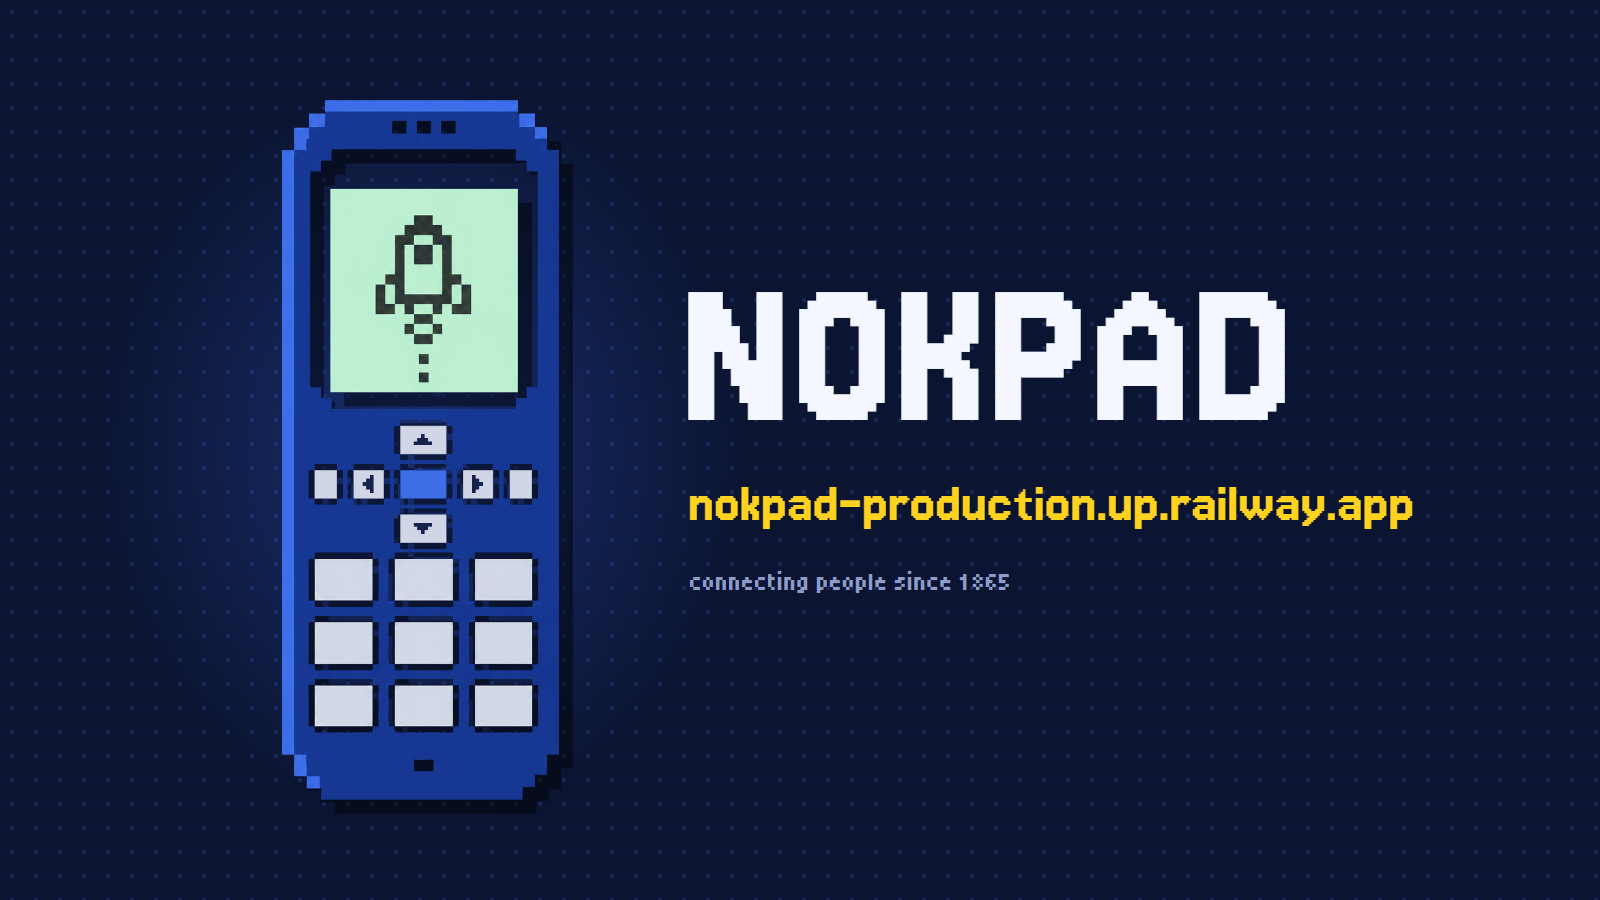
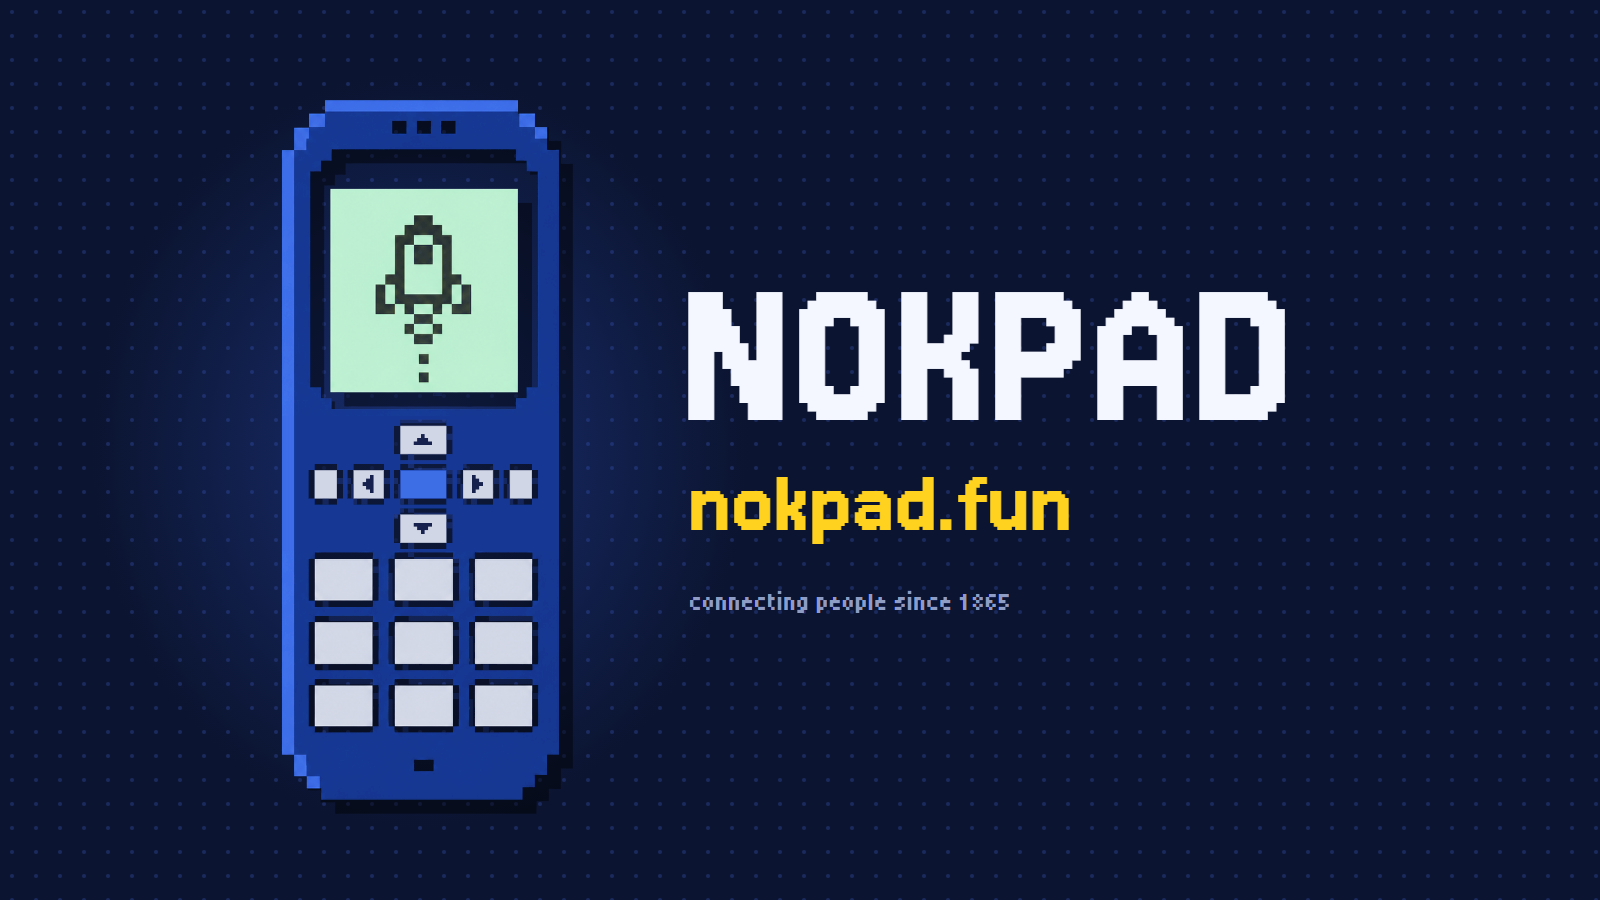
fix: point the NOKPAD article at nokpad.fun
The pad has its own domain now; the Railway address was a stand-in.

Changed region(s): [[0.4062, 0.5289, 0.9062, 0.6844]]

diff --git a/docs/nokpad/index.html b/docs/nokpad/index.html
@@ -47,7 +47,7 @@ button.ok{background:#f5b301;color:#111}
 <h2>It rings when your coin moves</h2></div></div></div><div class="step"><div class="num">8</div><div class="card"><div class="head"><span class="tag">Image</span><span class="sp"></span><a class="btn ghost" download="04-rings.png" href="04-rings.png">Download</a><button onclick="copyImage(this)">Copy image</button></div><img src="04-rings.png" alt=""></div></div><div class="step"><div class="num">9</div><div class="card"><div class="head"><span class="tag">Text</span><span class="sp"></span><button onclick="copyText(this)">Copy</button></div><div class="body"><p>Every coin launched here is saved in Contacts, menu 2.</p>
 <p>A new coin makes the phone buzz. Trades blip. <b>When a coin migrates, the phone rings.</b></p>
 <p>And yes, Snake works.</p></div></div></div><div class="step"><div class="num">10</div><div class="card"><div class="head"><span class="tag">Image</span><span class="sp"></span><a class="btn ghost" download="05-close.png" href="05-close.png">Download</a><button onclick="copyImage(this)">Copy image</button></div><img src="05-close.png" alt=""></div></div><div class="step"><div class="num">11</div><div class="card"><div class="head"><span class="tag">Text</span><span class="sp"></span><button onclick="copyText(this)">Copy</button></div><div class="body"><h2>Connecting people. Now launching coins.</h2>
-<p>Try the phone at <b>nokpad-production.up.railway.app</b>. Launching switches on soon, so go type yours.</p>
+<p>Try the phone at <b>nokpad.fun</b>. Launching switches on soon, so go type yours.</p>
 <p>What are you typing in first?</p></div></div></div></div>
 </div>
 <div class="toast" id="toast">Copied</div>

diff --git a/kits/nokpad/art/05-close.html b/kits/nokpad/art/05-close.html
@@ -16,4 +16,4 @@ svg{display:block}
 <filter id="hard" x="-10%" y="-10%" width="130%" height="130%"><feDropShadow dx="14" dy="14" stdDeviation="0" flood-color="#000" flood-opacity="0.45"/></filter>
 <radialGradient id="glow" cx="0.5" cy="0.5" r="0.5"><stop offset="0" stop-color="#c4ff96" stop-opacity="0.35"/><stop offset="1" stop-color="#c4ff96" stop-opacity="0"/></radialGradient>
 <radialGradient id="blue" cx="0.5" cy="0.5" r="0.5"><stop offset="0" stop-color="#2a4fc0" stop-opacity="0.45"/><stop offset="1" stop-color="#2a4fc0" stop-opacity="0"/></radialGradient>
-</defs><rect width="1600" height="900" fill="#0b1430"/><rect width="1600" height="900" fill="url(#dots)"/><ellipse cx="420" cy="450" rx="330" ry="380" fill="url(#blue)"/><image href="logo.png" x="281.1545138888889" y="100.0" width="277.69097222222223" height="700" filter="url(#hard)"/><text class="disp" x="680" y="420" font-size="230">NOKPAD</text><text class="disp y" x="688" y="520" font-size="58">nokpad-production.up.railway.app</text><text class="dim" x="690" y="590" font-size="26">connecting people since 1865</text></svg></body></html>
+</defs><rect width="1600" height="900" fill="#0b1430"/><rect width="1600" height="900" fill="url(#dots)"/><ellipse cx="420" cy="450" rx="330" ry="380" fill="url(#blue)"/><image href="logo.png" x="281.1545138888889" y="100.0" width="277.69097222222223" height="700" filter="url(#hard)"/><text class="disp" x="680" y="420" font-size="230">NOKPAD</text><text class="disp y" x="688" y="530" font-size="96">nokpad.fun</text><text class="dim" x="690" y="610" font-size="26">connecting people since 1865</text></svg></body></html>

diff --git a/kits/nokpad/art/gen.py b/kits/nokpad/art/gen.py
@@ -144,7 +144,7 @@ lh = 700
 lw = lh * 457 / 1152
 b.append(f'<image href="logo.png" x="{420 - lw / 2}" y="{450 - lh / 2}" width="{lw}" height="{lh}" filter="url(#hard)"/>')
 b.append('<text class="disp" x="680" y="420" font-size="230">NOKPAD</text>')
-b.append('<text class="disp y" x="688" y="520" font-size="58">nokpad-production.up.railway.app</text>')
-b.append('<text class="dim" x="690" y="590" font-size="26">connecting people since 1865</text>')
+b.append('<text class="disp y" x="688" y="530" font-size="96">nokpad.fun</text>')
+b.append('<text class="dim" x="690" y="610" font-size="26">connecting people since 1865</text>')
 page('05-close.html', 1600, 900, b)
 print('built')
